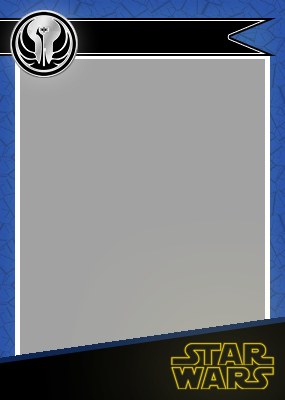
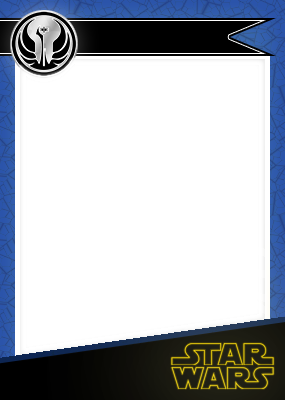
Added card display functionality when thumbnail is clicked.

diff --git a/assets/javascript/functionsDrawCards.js b/assets/javascript/functionsDrawCards.js
@@ -3,12 +3,13 @@ function drawCollegeFront(divName) {
 	$(myLocation).html(
 		'<div class="container-float cardTemplateURL" id="templateArea">'
 	+		'<div class="row">'
-	+			'<div class="col-lg-12" id="templateImage"><img src="TradingCardGenerator/assets/images/templateCollegeFront.png" height="400" width="285" />'
+	+			'<div class="col-lg-12" id="templateImage"><img src="assets/images/templateCollegeFront.png" height="400" width="285" />'
 	+				'<div class="templateElements text-uppercase" id="CollegeFrontName">' + characterName + '</div>'
 	+			'</div>'
 	+		'</div>'
 	+	'</div>'
 	);
+	$("#templateImage").append('<img src="' + ImageUrl + '" class="myGiphyImg" height="400" width="285" />');
 }
 
 function drawCollegeBack(divName) {
@@ -16,7 +17,7 @@ function drawCollegeBack(divName) {
 	$(myLocation).html(
 		'<div class="container-float cardTemplateURL" id="templateArea">'
 	+		'<div class="row">'
-	+			'<div class="col-lg-12" id="templateImage"><img src="TradingCardGenerator/assets/images/templateCollegeBack.png" height="400" width="285" />'
+	+			'<div class="col-lg-12" id="templateImage"><img src="assets/images/templateCollegeBack.png" height="400" width="285" />'
 	+				'<div class="templateElements text-uppercase" id="CollegeBackName">' + characterName + '</div>'
 	+				'<div class="templateElements" id="CollegeBackBio">' + swapistatsURL + '</div>'
 	+				'<div class="templateElements text-uppercase" id="CollegeBackImage"><img src="' + ImageUrl + '" class="img img-responsive" height="98" width="70" /></div>'
@@ -31,12 +32,14 @@ function drawSimpleFront(divName) {
 	$(myLocation).html(
 		'<div class="container-float cardTemplateURL" id="templateArea">'
 	+		'<div class="row">'
-	+			'<div class="col-lg-12" id="templateImage"><img src="TradingCardGenerator/assets/images/templateSimpleFront.png" height="400" width="285" />'
+	+			'<div class="col-lg-12" id="templateImage"><img src="assets/images/templateSimpleFront.png" height="400" width="285" />'
 	+				'<div class="templateElements text-uppercase" id="SimpleFrontName">' + characterName + '</div>'
 	+			'</div>'
 	+		'</div>'
 	+	'</div>'
 	);
+	$("#templateImage").append('<img src="' + ImageUrl + '" class="myGiphyImg" height="400" width="285" />');
+
 }
 
 function drawSimpleBack(divName) {
@@ -44,7 +47,7 @@ function drawSimpleBack(divName) {
 	$(myLocation).html(
 		'<div class="container-float cardTemplateURL" id="templateArea">'
 	+		'<div class="row">'
-	+			'<div class="col-lg-12" id="templateImage"><img src="TradingCardGenerator/assets/images/templateSimpleBack.png" height="400" width="285" />'
+	+			'<div class="col-lg-12" id="templateImage"><img src="assets/images/templateSimpleBack.png" height="400" width="285" />'
 	+				'<div class="templateElements text-uppercase" id="SimpleBackName">' + characterName + '</div>'
 	+				'<div class="templateElements" id="SimpleBackBio">' + swapistatsURL + '</div>'
 	+				'<div class="templateElements text-uppercase" id="SimpleBackImage"><img src="' + ImageUrl + '" class="img img-responsive" height="165" width="118" /></div>'
@@ -59,12 +62,13 @@ function drawFutureFront(divName) {
 	$(myLocation).html(
 		'<div class="container-float cardTemplateURL" id="templateArea">'
 	+		'<div class="row">'
-	+			'<div class="col-lg-12" id="templateImage"><img src="TradingCardGenerator/assets/images/templateFutureFront.png" height="400" width="285" />'
+	+			'<div class="col-lg-12" id="templateImage"><img src="assets/images/templateFutureFront.png" height="400" width="285" />'
 	+				'<div class="templateElements text-uppercase" id="FutureFrontName">' + characterName + '</div>'
 	+			'</div>'
 	+		'</div>'
 	+	'</div>'
 	);
+	$("#templateImage").append('<img src="' + ImageUrl + '" class="myGiphyImg" height="400" width="285" />');
 }
 
 function drawFutureBack(divName) {
@@ -72,7 +76,7 @@ function drawFutureBack(divName) {
 	$(myLocation).html(
 		'<div class="container-float cardTemplateURL" id="templateArea">'
 	+		'<div class="row">'
-	+			'<div class="col-lg-12" id="templateImage"><img src="TradingCardGenerator/assets/images/templateFutureBack.png" height="400" width="285" />'
+	+			'<div class="col-lg-12" id="templateImage"><img src="assets/images/templateFutureBack.png" height="400" width="285" />'
 	+				'<div class="templateElements text-uppercase" id="FutureBackName">' + characterName + '</div>'
 	+				'<div class="templateElements" id="FutureBackBio">' + swapistatsURL + '</div>'
 	+				'<div class="templateElements text-uppercase" id="FutureBackImage"><img src="' + ImageUrl + '" class="img img-responsive" height="162" width="116" /></div>'

diff --git a/assets/javascript/functionsS.js b/assets/javascript/functionsS.js
@@ -29,53 +29,53 @@ function test() {
 	var object1 = {
 		characterName: "Han Solo",
 		ImageUrl: "https://www.themarysue.com/wp-content/uploads/2017/07/han-solo-return-of-the-jedi_612x380.jpg",
-		charTemplateURL: "Future",
+		cardTemplateURL: "Future",
 		swapistatsURL: ""
 	};
 
 	var object2 = {
 		characterName: "Nien Nunb",
 		ImageUrl: "https://lumiere-a.akamaihd.net/v1/images/databank_niennunb_01_169_31eccf40.jpeg?region=0%2C49%2C1560%2C780",
-		charTemplateURL: "Simple",
+		cardTemplateURL: "Simple",
 		swapistatsURL: ""
 	};
 	var object3 = {
 		characterName: "Leia Organa",
 		ImageUrl: "https://lumiere-a.akamaihd.net/v1/images/leia_6d2292da.jpeg?region=295%2C124%2C1434%2C806&width=320",
-		charTemplateURL: "College",
+		cardTemplateURL: "College",
 		swapistatsURL: ""
 	};
 
 	var object4 = {
 		characterName: "Jabba The Hutt",
 		ImageUrl: "https://lumiere-a.akamaihd.net/v1/images/Jabba-The-Hutt_b5a08a70.jpeg?region=0%2C0%2C1200%2C675&width=768",
-		charTemplateURL: "Future",
+		cardTemplateURL: "Future",
 		swapistatsURL: ""
 	};
 	var object5 = {
 		characterName: "Han Solo",
 		ImageUrl: "https://www.themarysue.com/wp-content/uploads/2017/07/han-solo-return-of-the-jedi_612x380.jpg",
-		charTemplateURL: "Future",
+		cardTemplateURL: "Future",
 		swapistatsURL: ""
 	};
 
 	var object6 = {
 		characterName: "Nien Nunb",
 		ImageUrl: "https://lumiere-a.akamaihd.net/v1/images/databank_niennunb_01_169_31eccf40.jpeg?region=0%2C49%2C1560%2C780",
-		charTemplateURL: "Simple",
+		cardTemplateURL: "Simple",
 		swapistatsURL: ""
 	};
 	var object7 = {
 		characterName: "Leia Organa",
 		ImageUrl: "https://lumiere-a.akamaihd.net/v1/images/leia_6d2292da.jpeg?region=295%2C124%2C1434%2C806&width=320",
-		charTemplateURL: "College",
+		cardTemplateURL: "College",
 		swapistatsURL: ""
 	};
 
 	var object8 = {
 		characterName: "Jabba The Hutt",
 		ImageUrl: "https://lumiere-a.akamaihd.net/v1/images/Jabba-The-Hutt_b5a08a70.jpeg?region=0%2C0%2C1200%2C675&width=768",
-		charTemplateURL: "Future",
+		cardTemplateURL: "Future",
 		swapistatsURL: ""
 	};
 
@@ -107,10 +107,10 @@ function displayThTable(divName) {
 			'<div class="col-lg-2 col-md-2 col-sm-6 col-xs-6"><div class="innerThDiv" id="' + divID + '"><img src="' + ImageUrl + '" class="img img-responsive" /></div></div>'
 		);
 		// $("#" + divID).css('background-image', 'url(' + ImageUrl + ')');
-		$("#" + divID).attr('data-characterName', charName);
-		$("#" + divID).attr('data-ImageUrl', ImageUrl);
-		$("#" + divID).attr('data-cardTemplateURL', cardTemplateURL);
-		$("#" + divID).attr('data-swapistatsURL', swapistatsURL);
+		$("#" + divID).attr('data-charactername', charName);
+		$("#" + divID).attr('data-imageurl', ImageUrl);
+		$("#" + divID).attr('data-cardtemplateurl', cardTemplateURL);
+		$("#" + divID).attr('data-swapistatsurl', swapistatsURL);
 
 		if(i === 6) {
 			$("#thGallery").append('</div><div class="row cardTh">');
@@ -122,6 +122,38 @@ function displayThTable(divName) {
 	});
 
 	$(myLocation).append('</div>');
+	thListener();
+}
+
+function thListener() {
+	$(document).on("click", ".innerThDiv", function(event) {
+		// console.log($(this).attr("data-charactername"));
+		console.log($(this).attr("data-imageurl"));
+
+		// Set global variables to the clicked item
+		ImageUrl = $(this).attr("data-imageurl");
+		cardTemplateURL = $(this).attr("data-cardtemplateurl");
+		characterName = $(this).attr("data-charactername");
+		swapistatsURL = $(this).attr("data-swapistatsurl");
+
+		console.log(ImageUrl);
+
+		// Delete a card creation in progress
+		$("#imageSelectDiv").html(" ");
+		$("#templateSelectDiv").html(" ");
+
+		// Draw the clicked card in the main area
+		if($(this).attr("data-cardtemplateurl") === "Future") {
+			drawFutureFront("mainCardDisplayDiv");
+		}
+		else if($(this).attr("data-cardtemplateurl") === "College") {
+			drawCollegeFront("mainCardDisplayDiv");
+		}
+		else {
+			drawSimpleFront("mainCardDisplayDiv");
+		}
+		
+	});
 }
 
 function drawGiphy(charName) {
@@ -147,7 +179,7 @@ function drawGiphy(charName) {
 
 			var innerGifDiv = $("<div>", {
 				class: "giphyDiv",
-				"data-ImageUrl": response.data[i].images.original.url
+				"data-imageurl": response.data[i].images.original.url
 			});
 
 			// innerGifDiv.css('background-image', 'url(' + response.data[i].images.original.url + ')');

diff --git a/assets/css/drawCards.css b/assets/css/drawCards.css
@@ -1,7 +1,6 @@
 #templateArea {
 	width: 285px;
 	height: 400px;
-	background-color: #00FF00;
 	margin: 0 auto;
 	margin-top: 25px;
 }
@@ -9,6 +8,13 @@
 #templateImage {
 	position: relative;
 	z-index: 1;
+}
+
+.myGiphyImg {
+	position: absolute;
+	top: 0;
+	left: 4.75%;
+	z-index: -1;
 }
 
 .templateElements {
